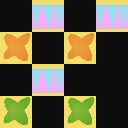
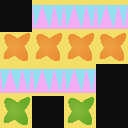
fixing score

diff --git a/Assets/Scripts/UI/ResultPanelUI.cs b/Assets/Scripts/UI/ResultPanelUI.cs
@@ -1,6 +1,7 @@
 using UnityEngine;
 using TMPro;
 using System.Collections;
+using UnityEngine.UI;
 
 public class ResultPanelUI : MonoBehaviour
 {
@@ -8,6 +9,9 @@ public class ResultPanelUI : MonoBehaviour
     [SerializeField] private TextMeshProUGUI percentageText;
     [SerializeField] private TextMeshProUGUI scoreText;
     [SerializeField] private float showDelay = 0.8f;
+
+    [SerializeField] private RawImage gridPreview;
+    [SerializeField] private GridPainter gridPainter; 
 
     private ScoreManager scoreManager;
 
@@ -40,11 +44,15 @@ public class ResultPanelUI : MonoBehaviour
 
         // Guarda la imagen del grid
         GridPainter gridPainter = FindObjectOfType<GridPainter>();
-        if (gridPainter != null)
+        StartCoroutine(gridPainter.GenerateGridTexture((Texture2D tex) =>
         {
-            gridPainter.SaveGrid(); // Esto ejecuta la captura
-            Debug.Log("Grid guardado antes de mostrar resultados.");
-        }
+            if (tex != null)
+            {
+                gridPreview.texture = tex;
+                gridPreview.SetNativeSize();
+                gridPreview.gameObject.SetActive(true);
+            }
+        }));
 
         // Espera el margen restante para mostrar el panel
         yield return new WaitForSeconds(saveMargin);

diff --git a/Assets/Scripts/GameObjects/GridPainter.cs b/Assets/Scripts/GameObjects/GridPainter.cs
@@ -91,12 +91,7 @@ public class GridPainter : MonoBehaviour
     /// Salvar el grid en una imagen
     /// </summary>
     [ContextMenu("Guardar imagen del Grid")]
-    public void SaveGrid()
-    {
-        StartCoroutine(SaveGridCoroutine());
-    }
-
-    private IEnumerator SaveGridCoroutine()
+    public IEnumerator GenerateGridTexture(System.Action<Texture2D> callback)
     {
         yield return new WaitForEndOfFrame();
 
@@ -128,7 +123,7 @@ public class GridPainter : MonoBehaviour
 
         // Render y esperar
         gridCam.Render();
-        yield return null; // 👈 Espera un frame extra
+        yield return null; // Espera un frame extra
         RenderTexture.active = rt;
 
         // Ahora sí, leer píxeles
@@ -151,6 +146,8 @@ public class GridPainter : MonoBehaviour
         File.WriteAllBytes(fullPath, tex.EncodeToPNG());
 
         Debug.Log($"Grid guardado correctamente: {fullPath}");
+
+        callback?.Invoke(tex);
     }
 
     private void SetLayerRecursively(GameObject obj, int layer)

diff --git a/Assets/Scripts/GameObjects/ScoreManager.cs b/Assets/Scripts/GameObjects/ScoreManager.cs
@@ -11,7 +11,7 @@ public class ScoreManager : MonoBehaviour
     public void AddHit(int amount)
     {
         hitNotes++;
-        score += amount;
+        pendingPoints += amount;
         Debug.Log("Puntuación: " + score);
     }
 
